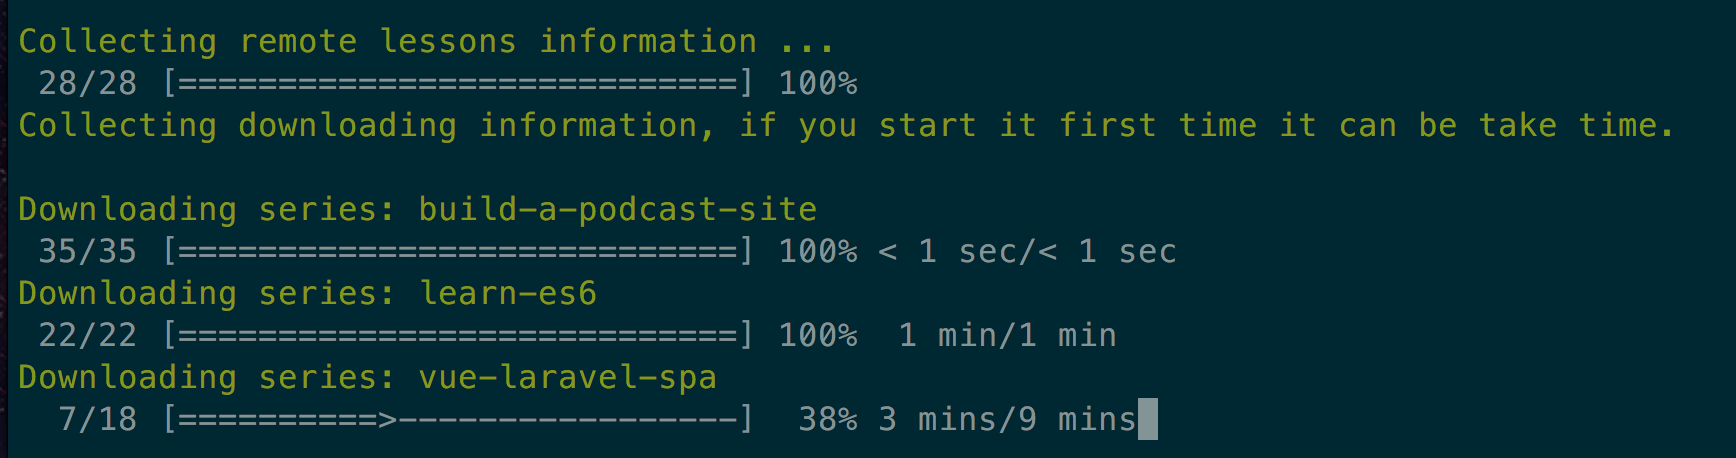
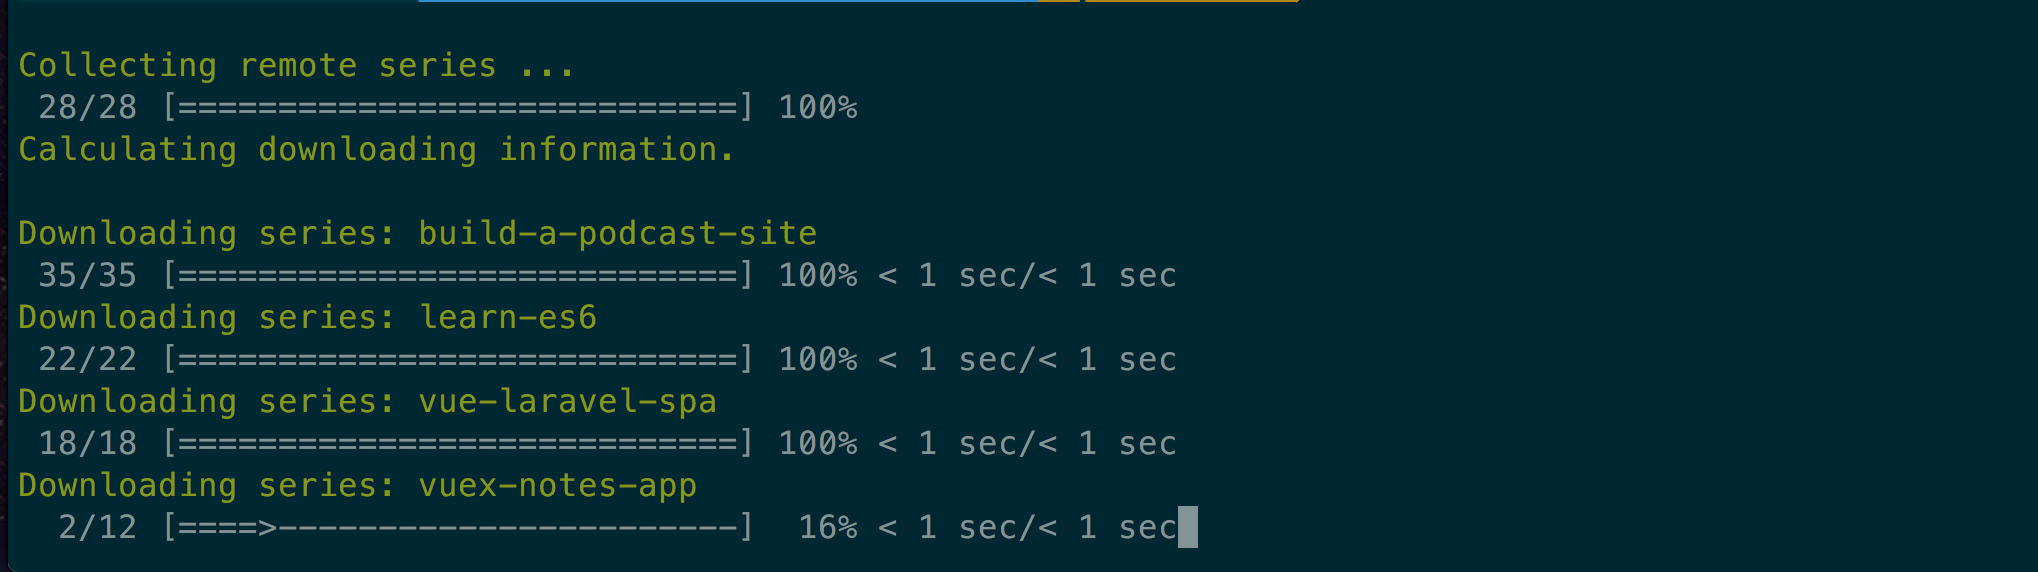
Screenshot update

diff --git a/src/Process/Core.php b/src/Process/Core.php
@@ -35,8 +35,7 @@ class Core
         $remotes = $this->remote->series($this->output);
         $checkLessons = [];
         echo PHP_EOL;
-        $this->output->writeln("<info>Collecting downloading information, if you start it first time it can be take time.</info>");
-
+        $this->output->writeln("<info>Calculating downloading information.</info>");
         foreach ($remotes as $lesson => $count) {
             $locale = $files->lessons($lesson);
             $this->remote->createFolderIfNotExists($lesson, $files);

diff --git a/README.md b/README.md
@@ -4,6 +4,7 @@ Download codecourse.com videos.
 ## Description
 Inspired from iamfreee/laracasts-downloader. Download or update your local catalogue with codecourse.com series.
 
+If you dont want to save your username and password in configuration file just remove username and password settings from configuration file. It will ask your username and password after you run downloader.
 #### An account with an active subscription is necessary!
 
 ## Requirements
